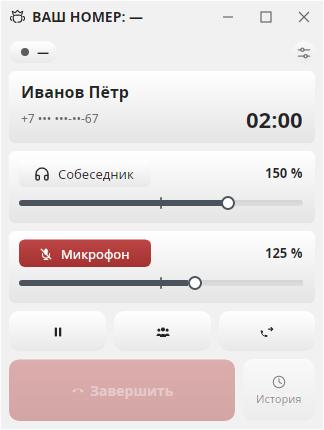
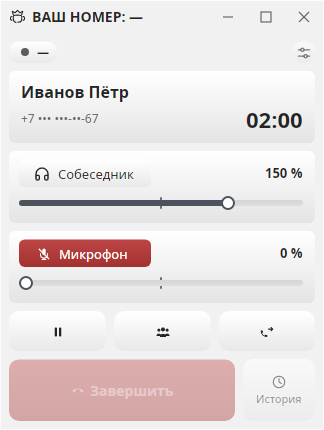
Панель: микрофон в ноль, подсветка подтверждения, ползунки над макросами
Generated with [Devin](https://devin.ai)

diff --git a/src/EliteSIP.App.Linux/Panel/PanelWindow.axaml.cs b/src/EliteSIP.App.Linux/Panel/PanelWindow.axaml.cs
@@ -278,6 +278,13 @@ public partial class PanelWindow : Window
         if (!_opened) { return; }
         UpdateRows();
         UpdateMinimumHeight();
+
+        // Вернули ползунки или макросы — окно вырастает под них, а не прячет
+        // клавиши под сеткой.
+        if (SizeToContent is SizeToContent.Manual && Height < MinHeight)
+        {
+            Height = MinHeight;
+        }
     }
 
     /// <summary>
@@ -569,13 +576,13 @@ public partial class PanelWindow : Window
         ConfirmAction.Content = action;
         _confirmed = confirmed;
         _asking = key;
-        key.Classes.Add("asking");
+        key.SetCurrentValue(ToggleButton.IsCheckedProperty, true);
         ConfirmPopup.IsOpen = true;
     }
 
     private void OnConfirmPopupClosed(object? sender, EventArgs e)
     {
-        _asking?.Classes.Remove("asking");
+        _asking?.SetCurrentValue(ToggleButton.IsCheckedProperty, ReferenceEquals(_asking, HoldKey) ? Model.IsOnHold : Model.IsConferenceStarted);
         _asking = null;
     }
 
@@ -588,6 +595,32 @@ public partial class PanelWindow : Window
     }
 
     private void OnConfirmCancelClick(object? sender, RoutedEventArgs e) => ConfirmPopup.IsOpen = false;
+
+    /// <summary>Громкость микрофона, к которой вернуться после выключения.</summary>
+    private double _gainBeforeMute = 1;
+
+    /// <summary>
+    /// «Микрофон»: выключить — и ползунок уходит в ноль, как у «Собеседника»;
+    /// включить — прежняя громкость. Раньше ползунок стоял на месте, и было
+    /// непонятно, выключен ли микрофон.
+    /// </summary>
+    private void OnMicrophoneClick(object? sender, RoutedEventArgs e)
+    {
+        var audio = Model.Audio;
+        if (!Model.IsMicrophoneMuted)
+        {
+            if (audio.MicrophoneGain > 0.001) { _gainBeforeMute = audio.MicrophoneGain; }
+            Model.ToggleMicrophone?.Execute(null);
+            if (Model.IsMicrophoneMuted) { audio.MicrophoneGain = 0; }
+        }
+        else
+        {
+            Model.ToggleMicrophone?.Execute(null);
+            if (!Model.IsMicrophoneMuted && audio.MicrophoneGain <= 0.001) { audio.MicrophoneGain = _gainBeforeMute > 0.001 ? _gainBeforeMute : 1; }
+        }
+
+        if (sender is ToggleButton key) { key.SetCurrentValue(ToggleButton.IsCheckedProperty, Model.IsMicrophoneMuted); }
+    }
 
     /// <summary>Удержание — с подтверждением; снять удержание — сразу.</summary>
     private void OnHoldClick(object? sender, RoutedEventArgs e)

diff --git a/tests/EliteSIP.App.Linux.Tests/PanelVolumeTests.cs b/tests/EliteSIP.App.Linux.Tests/PanelVolumeTests.cs
@@ -53,9 +53,10 @@ public sealed class PanelVolumeTests
             // Значок микрофона на ползунке — то же отключение, что клавиша «Микрофон».
             model.CanControlMedia = true;
             Dispatcher.UIThread.RunJobs();
-            panel.FindControl<Button>("MicrophoneVolumeIcon")!.Command!.Execute(null);
+            panel.FindControl<ToggleButton>("MicrophoneVolumeIcon")!.RaiseEvent(new Avalonia.Interactivity.RoutedEventArgs(Button.ClickEvent));
             Dispatcher.UIThread.RunJobs();
             Assert.True(model.IsMicrophoneMuted);
+            Assert.Equal(0, settings.Audio.MicrophoneGain, 3);
 
             Snapshot.Save(panel.CaptureRenderedFrame()!, "panel-volume");
 
@@ -120,6 +121,10 @@ public sealed class PanelVolumeTests
             model.ShowsVolume = true;
             Dispatcher.UIThread.RunJobs();
             Assert.True(peerFrame.IsVisible);
+            // Вернули ползунки — окно выросло под них и ничего не наезжает.
+            Assert.True(panel.Height >= panel.MinHeight - 0.5, $"окно {panel.Height:0} при минимуме {panel.MinHeight:0}");
+            Assert.True(panel.FindControl<Grid>("KeysRow")!.TranslatePoint(default, panel)!.Value.Y
+                >= micFrame.TranslatePoint(new Point(0, micFrame.Bounds.Height), panel)!.Value.Y);
 
             // У панели и без того шумят привязки к пустым Trouble/Activity;
             // свои — громкость и меню «⋯» — обязаны быть чистыми.

diff --git a/patchnote.md b/patchnote.md
@@ -27,6 +27,9 @@
 - Заголовки фреймов — кнопки: «Собеседник» уводит звук собеседника в ноль и краснеет, повторное нажатие возвращает прежнюю громкость; «Микрофон» выключает микрофон и краснеет. Ползунок микрофона недоступен, когда включена автоматическая регулировка, — как в настройках.
 - От случайных щелчков: «Удержать» и «Конференция» спрашивают подтверждение («Поставить на удержание?», «Создать конференцию?»); пока окно открыто, сама клавиша подсвечена, а в окне стоит её значок — видно, к чему вопрос. Снять удержание — сразу.
 - Номер перевода — всплывающим окном над клавишами (Enter — перевести, Esc — отмена): раньше поле вставало на место макросов и прятало их.
+- «Микрофон» при выключении уводит ползунок в ноль, при включении возвращает прежнюю громкость — как «Собеседник».
+- Клавиши «Удержать» и «Конференция», пока открыт вопрос о них, подсвечены так же, как нажатая «Перевести».
+- Если вернуть ползунки при включённых макросах, окно вырастает под них — клавиши больше не уходят под сетку макросов.
 - Ползунки громкости можно убрать с главного окна: «Оформление» → «Ползунки громкости на главном окне» (по умолчанию включено). Без них в ряду клавиш появляется четвёртая — микрофон.
 - Идущий разговор больше не подписан словом «разговор»: о нём говорит время. Состояния «Гудки…», «Подключаем звук…», удержание — остались.
 - Отступы между блоками панели выровнены (везде 8). Длинная подпись профиля в шапке ужимается с конца, стрелка меню остаётся видна.
